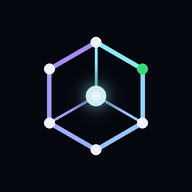
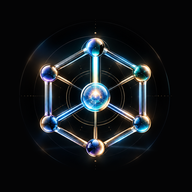
Brand: the chrome-and-glass GENESIS PHYSICS lattice as the official mark
Owner-supplied artwork, cleaned of the side slogans (only the mark,
GENESIS / PHYSICS / SCIENTIFIC OS and genesis-physics.com remain):
- public/og-image.jpg (1200x1200), public/icon-192/512.png (mark inside the
  maskable safe zone), public/brand/genesis-mark.png (mark alone) and
  public/brand/genesis-lockup.png (mark + wordmark, 1200x400). Derived with
  feathered masks so nothing is cut hard; scripted, reproducible.
- AppShell.GenesisMark renders the raster mark (same artwork everywhere).
- StartHero shows the lockup above the question; eyebrow keeps the domain.
- sw.js precaches the two brand assets; CSS section 13 for sizing/glow.

Verified: build OK, lint 0, full frontend suite 578 files / 6659 passed.

Claude-Session: https://claude.ai/code/session_019Tw1dtTXx1SveKrv7GW1M6

diff --git a/packages/frontend/src/components/AppShell.tsx b/packages/frontend/src/components/AppShell.tsx
@@ -113,38 +113,13 @@ function useRangeFillPainter(): void {
  */
 
 /**
- * GENESIS PHYSICS brand mark — "the lattice and the spark". Used on every
- * page (top bar, sidebar, title card) via `GenesisWordmark`.
- * A hexagonal evidence lattice (six nodes, three spokes) around a bright
- * core; one vertex lit green: the single verified node the Winner Gate lets
- * through. Same geometry as public/icon-*.png and og-image.jpg.
+ * GENESIS PHYSICS brand mark — the chrome-and-glass hexagonal lattice with a
+ * lit core (public/brand/genesis-mark.png, the same artwork as the PWA icons
+ * and og-image.jpg). Used on every page (top bar, sidebar, title card) via
+ * `GenesisWordmark`. Decorative: the wordmark text carries the name.
  */
 export function GenesisMark({ size = 28 }: { size?: number }): JSX.Element {
-  return (
-    <svg width={size} height={size} viewBox="0 0 32 32" aria-hidden="true" className="genesis-mark">
-      <defs>
-        <linearGradient id="gm-ring" x1="1" y1="0" x2="0" y2="1">
-          <stop offset="0" stopColor="#8ee8f5" />
-          <stop offset="1" stopColor="#a78bfa" />
-        </linearGradient>
-        <radialGradient id="gm-core" cx="0.5" cy="0.5" r="0.5">
-          <stop offset="0" stopColor="#ffffff" />
-          <stop offset="0.5" stopColor="#c9f4fa" />
-          <stop offset="1" stopColor="#8ee8f5" stopOpacity="0" />
-        </radialGradient>
-      </defs>
-      <polygon points="16,4 26.39,10 26.39,22 16,28 5.61,22 5.61,10" fill="none" stroke="url(#gm-ring)" strokeWidth="1.6" strokeLinejoin="round" />
-      <path d="M16 4 L16 16 M26.39 22 L16 16 M5.61 22 L16 16" fill="none" stroke="url(#gm-ring)" strokeWidth="1.1" strokeOpacity="0.7" strokeLinecap="round" />
-      <circle cx="16" cy="16" r="5.2" fill="url(#gm-core)" />
-      <circle cx="16" cy="16" r="2.2" fill="#eef2fb" />
-      <circle cx="16" cy="4" r="1.25" fill="#eef2fb" />
-      <circle cx="26.39" cy="10" r="1.35" fill="#39d97a" />
-      <circle cx="26.39" cy="22" r="1.25" fill="#eef2fb" />
-      <circle cx="16" cy="28" r="1.25" fill="#eef2fb" />
-      <circle cx="5.61" cy="22" r="1.25" fill="#eef2fb" />
-      <circle cx="5.61" cy="10" r="1.25" fill="#eef2fb" />
-    </svg>
-  );
+  return <img src="/brand/genesis-mark.png" width={size} height={size} alt="" aria-hidden="true" className="genesis-mark" decoding="async" />;
 }
 
 /** Mark + name, one component for every page's chrome. */

diff --git a/packages/frontend/src/components/StartHero.tsx b/packages/frontend/src/components/StartHero.tsx
@@ -55,7 +55,8 @@ export function StartHero(): React.ReactElement {
     <section className="start" aria-label="Start" data-testid="start-hero">
       <div className="start-glow" aria-hidden="true" />
       <header className="start-head">
-        <span className="gx-eyebrow">Genesis Physics · Scientific OS · genesis-physics.com</span>
+        <img className="start-brand" src="/brand/genesis-lockup.png" alt="Genesis Physics — Scientific OS" width={1200} height={400} decoding="async" />
+        <span className="gx-eyebrow">genesis-physics.com</span>
         <h1 className="start-title">Zadaj pytanie. Genesis przeprowadzi badanie.</h1>
         <p className="start-lede">
           Kandydaci, dowody, próba obalenia własnej hipotezy, bramka zwycięzcy — w jednym przebiegu, z odciskiem każdego etapu.

diff --git a/packages/frontend/src/styles-2040-hud.css b/packages/frontend/src/styles-2040-hud.css
@@ -257,3 +257,7 @@ input, select, textarea { background: transparent !important; border: 1px solid 
 .shell-sidebar::before, .shell-sidebar::after, .topbar::before, .topbar::after { display: none !important; }
 .topbar { background: transparent !important; border: none !important; }
 .app, .app-main, .shell-route, .start, .matrix-stage { background: transparent !important; }
+
+/* ---- 13. BRAND: chrome lattice mark + lockup (public/brand) ---- */
+.genesis-mark { display: block; border-radius: 50%; object-fit: cover; }
+.start-brand { display: block; width: min(480px, 78vw); height: auto; margin: 0 auto 0.5rem; filter: drop-shadow(0 0 28px rgba(142, 232, 245, 0.22)); }

diff --git a/packages/frontend/public/sw.js b/packages/frontend/public/sw.js
@@ -7,7 +7,7 @@
  */
 
 const CACHE = 'genesis-v3';
-const PRECACHE = ['/', '/manifest.webmanifest', '/icon-192.png', '/icon-512.png'];
+const PRECACHE = ['/', '/manifest.webmanifest', '/icon-192.png', '/icon-512.png', '/brand/genesis-mark.png', '/brand/genesis-lockup.png'];
 
 self.addEventListener('install', (event) => {
   event.waitUntil(
